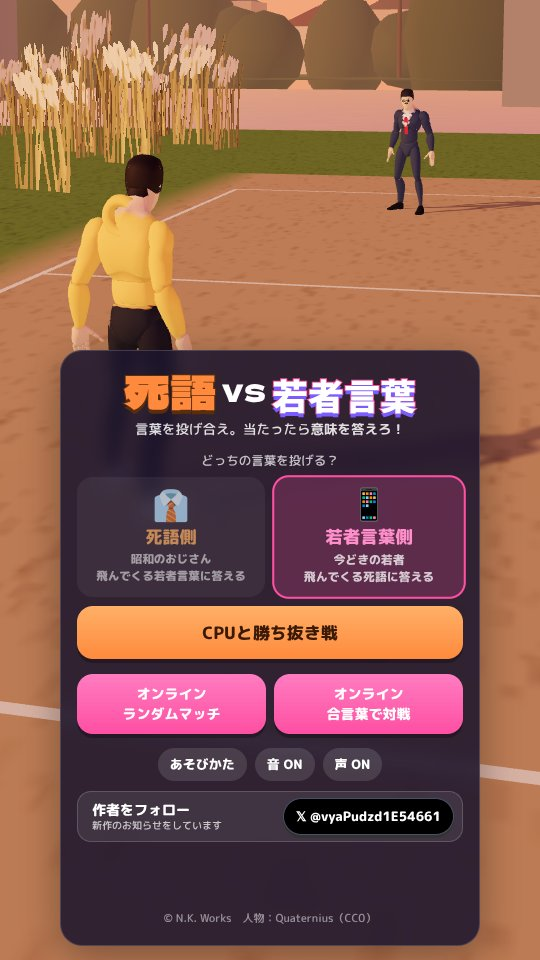
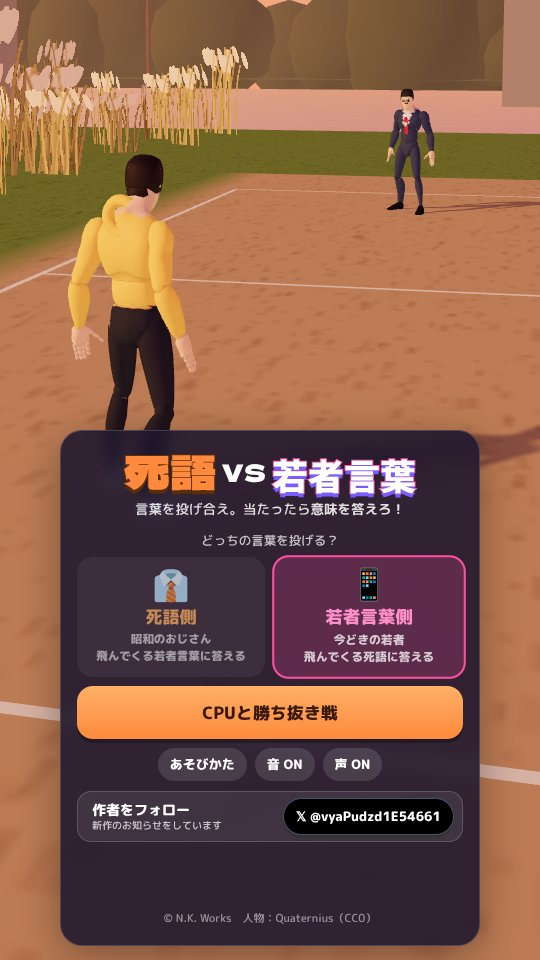
死語 VS 若者言葉：オンライン対戦をいったん非表示に
- タイトルのオンライン対戦ボタンを隠す（CONFIG.online を true にすると戻る）
- ゲームと説明ページの説明文からオンライン対戦の記述を外し、タイトル画面の画像を差し替え

Claude-Session: https://claude.ai/code/session_012oTrt9m68T44S87oX7ydE4

Changed region(s): [[0.0889, 0.3438, 0.9185, 0.7812], [0.0, 0.0, 0.5926, 0.2188], [0.6815, 0.0, 0.7704, 0.0938]]

diff --git a/games/shigo-vs-wakamono/index.html b/games/shigo-vs-wakamono/index.html
@@ -4,13 +4,13 @@
 <meta charset="utf-8">
 <meta name="viewport" content="width=device-width,initial-scale=1">
 <title>死語 VS 若者言葉｜遊び方とコツ - N.K. Works</title>
-<meta name="description" content="死語と若者言葉を立体の文字にして投げ合う3Dゲームです。当たったら、その言葉の意味を4択で答えます。CPUとの勝ち抜き戦と、オンライン対戦（ランダムマッチ・合言葉）があります。">
+<meta name="description" content="死語と若者言葉を立体の文字にして投げ合う3Dゲームです。当たったら、その言葉の意味を4択で答えます。CPUとの勝ち抜き戦で、何人たおせるかに挑戦します。">
 <meta name="google-adsense-account" content="ca-pub-2073267239630350">
 <link rel="canonical" href="https://nkworks-games.com/games/shigo-vs-wakamono/">
 <meta property="og:type" content="website">
 <meta property="og:site_name" content="N.K. Works">
 <meta property="og:title" content="死語 VS 若者言葉｜遊び方とコツ - N.K. Works">
-<meta property="og:description" content="死語と若者言葉を立体の文字にして投げ合う3Dゲームです。当たったら、その言葉の意味を4択で答えます。CPUとの勝ち抜き戦と、オンライン対戦（ランダムマッチ・合言葉）があります。">
+<meta property="og:description" content="死語と若者言葉を立体の文字にして投げ合う3Dゲームです。当たったら、その言葉の意味を4択で答えます。CPUとの勝ち抜き戦で、何人たおせるかに挑戦します。">
 <meta property="og:url" content="https://nkworks-games.com/games/shigo-vs-wakamono/">
 <meta property="og:image" content="https://nkworks-games.com/games/shigo-vs-wakamono/thumb.jpg">
 <meta name="twitter:card" content="summary_large_image">
@@ -18,7 +18,7 @@
 <script>
 (function(){ if (/(^|\.)nkworks-games\.com$/.test(location.hostname)) { var s=document.createElement('script'); s.async=true; s.crossOrigin='anonymous'; s.src='https://pagead2.googlesyndication.com/pagead/js/adsbygoogle.js?client=ca-pub-2073267239630350'; document.head.appendChild(s); } })();
 </script>
-<script type="application/ld+json">{"@context": "https://schema.org", "@type": "VideoGame", "name": "死語 VS 若者言葉", "url": "https://nkworks-games.com/shigo-vs-wakamono/", "description": "死語と若者言葉を立体の文字にして投げ合う3Dゲームです。当たったら、その言葉の意味を4択で答えます。CPUとの勝ち抜き戦と、オンライン対戦（ランダムマッチ・合言葉）があります。", "image": "https://nkworks-games.com/games/shigo-vs-wakamono/thumb.jpg", "datePublished": "2026-11-06", "gamePlatform": "Web browser", "applicationCategory": "Game", "inLanguage": "ja", "author": {"@type": "Organization", "name": "N.K. Works", "url": "https://nkworks-games.com/"}, "offers": {"@type": "Offer", "price": "0", "priceCurrency": "JPY"}}</script>
+<script type="application/ld+json">{"@context": "https://schema.org", "@type": "VideoGame", "name": "死語 VS 若者言葉", "url": "https://nkworks-games.com/shigo-vs-wakamono/", "description": "死語と若者言葉を立体の文字にして投げ合う3Dゲームです。当たったら、その言葉の意味を4択で答えます。CPUとの勝ち抜き戦で、何人たおせるかに挑戦します。", "image": "https://nkworks-games.com/games/shigo-vs-wakamono/thumb.jpg", "datePublished": "2026-11-06", "gamePlatform": "Web browser", "applicationCategory": "Game", "inLanguage": "ja", "author": {"@type": "Organization", "name": "N.K. Works", "url": "https://nkworks-games.com/"}, "offers": {"@type": "Offer", "price": "0", "priceCurrency": "JPY"}}</script>
 </head>
 <body>
 
@@ -32,13 +32,13 @@
 <h1>死語 VS 若者言葉</h1><p class="lead">言葉を投げ合え。当たったら意味を答えろ！</p>
 <div class="hero"><img src="/games/shigo-vs-wakamono/thumb.jpg" alt="死語 VS 若者言葉のイメージ。夕方の河川敷で、若者と昭和風のおじさんが「チョベリバ」「メロい」などの立体の文字を投げ合っている" width="600" height="315"></div>
 <div class="play-row"><a class="btn" href="/shigo-vs-wakamono/">▶ ブラウザで遊ぶ（無料）</a><span class="muted">インストールなし。リンクを開くとすぐ始まります。</span></div>
-<ul class="facts"><li><b>遊べる所</b><span>スマホ（縦画面・横画面）・パソコン</span></li><li><b>人数</b><span>1人（CPUと勝ち抜き戦）・2人（オンライン対戦）</span></li><li><b>1回の長さ</b><span>1人と戦うのは約1分。CPU戦は負けるまで続く</span></li><li><b>公開日</b><span>2026年11月6日</span></li><li><b>料金</b><span>無料（広告あり）</span></li></ul>
+<ul class="facts"><li><b>遊べる所</b><span>スマホ（縦画面・横画面）・パソコン</span></li><li><b>人数</b><span>1人（CPUと勝ち抜き戦）</span></li><li><b>1回の長さ</b><span>1人と戦うのは約1分。CPU戦は負けるまで続く</span></li><li><b>公開日</b><span>2026年11月6日</span></li><li><b>料金</b><span>無料（広告あり）</span></li></ul>
 <h2>どんなゲーム？</h2>
 <p>夕方の河川敷で、言葉を立体の文字にして投げ合うゲームです。最初に「死語側」か「若者言葉側」を選びます。死語側は昭和風のおじさんになって「ナウい」「チョベリバ」などの死語を投げ、若者言葉側は今どきの若者になって「メロい」「エモい」などの若者言葉を投げます。</p>
 <p>相手の言葉に当たると、その言葉の意味を4択で答えます。投げる言葉も、意味を答えられないと投げられません。死語と若者言葉の両方を知っているほど強くなる、言葉の知識の対戦ゲームです。</p>
-<div class="shots"><figure><img src="/games/shigo-vs-wakamono/title.jpg" alt="死語 VS 若者言葉のタイトル画面。死語側と若者言葉側を選ぶボタン、CPUと勝ち抜き戦、オンラインのランダムマッチと合言葉で対戦のボタンが並んでいる" loading="lazy" width="540" height="960"><figcaption>タイトル画面。死語側か若者言葉側を選んで、CPU戦かオンライン対戦を始める</figcaption></figure><figure><img src="/games/shigo-vs-wakamono/play.jpg" alt="対戦中の画面。奥のおじさんから「チョベリグ」、手前の若者から「ビジュイイじゃん」が飛んでいる。画面の下に、投げる言葉「推し」の意味を答える4択が出ている" loading="lazy" width="540" height="960"><figcaption>対戦中の画面。下の4択に正解すると、その言葉を3発投げられる</figcaption></figure><figure><img src="/games/shigo-vs-wakamono/quiz.jpg" alt="言葉に当たった画面。「アベック」ってどういう意味？と出て、恋人どうしのふたり組・テストが平均点ちょうどの人などの4択が並んでいる" loading="lazy" width="540" height="960"><figcaption>言葉に当たると、5秒以内に意味を4択で答える</figcaption></figure></div>
-<h2>遊び方</h2><ol class="steps"><li>タイトル画面で「死語側」か「若者言葉側」を選びます。</li><li>「CPUと勝ち抜き戦」か、オンラインの「ランダムマッチ」「合言葉で対戦」を選びます。</li><li>画面の下に、自分の側の言葉の4択が出ます。意味を正解すると、その言葉が「弾」になります。</li><li>画面をタップすると、弾を投げます。相手と同じ列に入ってねらいます。</li><li>画面を指でなぞると、前後左右に動きます。飛んでくる言葉をよけます。</li><li>相手の言葉に当たったら、その言葉の意味を4択で答えます。</li><li>パソコンでは、←→↑↓キーで動き、スペースキーで投げ、1〜4キーで4択に答えます。</li></ol>
-<h2>ルール</h2><ul><li>ライフ（♥）はお互いに3つです。先に0になった方の負けです。</li><li>相手の言葉に当たったら、5秒以内に意味を4択で答えます。正解でも♥が半分減り、まちがい・時間切れは♥が1つ減ります。</li><li>一度正解した言葉に、もう一度当たったときは、4択は出ずに、すぐ♥が半分減ります。</li><li>投げる言葉の4択に正解すると、同じ言葉を3発投げられます。弾は言葉2つぶん（6発）までためられます。</li><li>投げる言葉の4択をまちがえると、1.5秒のあいだ答えられません。その言葉は捨てて、次の言葉になります。</li><li>相手の言葉とぶつかると「相殺」して、両方消えます。</li><li>前に出られるのは、真ん中の線の手前までです。前に出ると当てやすくなりますが、相手の言葉も早く届くので、よけにくくなります。</li><li>CPU戦は、勝つたびに次の相手が出ます。相手はだんだん強くなり、投げる言葉もむずかしくなります。倒した人数が記録になり、人数に応じて称号がつきます。</li><li>オンラインのランダムマッチは、20秒たっても相手が見つからないとCPU戦になります。2人とも同じ側を選んでいたときは、どちらか1人がランダムで反対の側になります。</li></ul>
+<div class="shots"><figure><img src="/games/shigo-vs-wakamono/title.jpg" alt="死語 VS 若者言葉のタイトル画面。死語側と若者言葉側を選ぶボタンと、CPUと勝ち抜き戦のボタンが並んでいる" loading="lazy" width="540" height="960"><figcaption>タイトル画面。死語側か若者言葉側を選んで、CPUとの勝ち抜き戦を始める</figcaption></figure><figure><img src="/games/shigo-vs-wakamono/play.jpg" alt="対戦中の画面。奥のおじさんから「チョベリグ」、手前の若者から「ビジュイイじゃん」が飛んでいる。画面の下に、投げる言葉「推し」の意味を答える4択が出ている" loading="lazy" width="540" height="960"><figcaption>対戦中の画面。下の4択に正解すると、その言葉を3発投げられる</figcaption></figure><figure><img src="/games/shigo-vs-wakamono/quiz.jpg" alt="言葉に当たった画面。「アベック」ってどういう意味？と出て、恋人どうしのふたり組・テストが平均点ちょうどの人などの4択が並んでいる" loading="lazy" width="540" height="960"><figcaption>言葉に当たると、5秒以内に意味を4択で答える</figcaption></figure></div>
+<h2>遊び方</h2><ol class="steps"><li>タイトル画面で「死語側」か「若者言葉側」を選びます。</li><li>「CPUと勝ち抜き戦」を押すと、対戦が始まります。</li><li>画面の下に、自分の側の言葉の4択が出ます。意味を正解すると、その言葉が「弾」になります。</li><li>画面をタップすると、弾を投げます。相手と同じ列に入ってねらいます。</li><li>画面を指でなぞると、前後左右に動きます。飛んでくる言葉をよけます。</li><li>相手の言葉に当たったら、その言葉の意味を4択で答えます。</li><li>パソコンでは、←→↑↓キーで動き、スペースキーで投げ、1〜4キーで4択に答えます。</li></ol>
+<h2>ルール</h2><ul><li>ライフ（♥）はお互いに3つです。先に0になった方の負けです。</li><li>相手の言葉に当たったら、5秒以内に意味を4択で答えます。正解でも♥が半分減り、まちがい・時間切れは♥が1つ減ります。</li><li>一度正解した言葉に、もう一度当たったときは、4択は出ずに、すぐ♥が半分減ります。</li><li>投げる言葉の4択に正解すると、同じ言葉を3発投げられます。弾は言葉2つぶん（6発）までためられます。</li><li>投げる言葉の4択をまちがえると、1.5秒のあいだ答えられません。その言葉は捨てて、次の言葉になります。</li><li>相手の言葉とぶつかると「相殺」して、両方消えます。</li><li>前に出られるのは、真ん中の線の手前までです。前に出ると当てやすくなりますが、相手の言葉も早く届くので、よけにくくなります。</li><li>CPU戦は、勝つたびに次の相手が出ます。相手はだんだん強くなり、投げる言葉もむずかしくなります。倒した人数が記録になり、人数に応じて称号がつきます。</li></ul>
 <h2>うまくなるコツ</h2><ul><li>4択は、よけながら答えます。言葉が飛んでいないすきに、下の4択に答えて弾をためておくと、攻めやすくなります。</li><li>同じ言葉が3発続けて飛んでくるときは、1発目をよければ、2発目・3発目も同じ列に来やすいです。横に大きく動くとよけやすくなります。</li><li>当たったときに正解できれば、ダメージは半分で済みます。知らない言葉ほど、当たらないようによけるのが大事です。</li><li>相手の言葉は、自分の言葉とぶつけて相殺できます。よけきれないときは、同じ列に投げ返すのも手です。</li><li>結果画面に「まちがえた言葉」と意味が出ます。見直しておくと、次は正解できます。</li></ul>
 <h2>見どころ</h2><ul><li>言葉は、若者言葉94語・死語106語の合わせて200語です。若者言葉は2023〜2026年の流行語の調査に出た言葉から、死語は死語の一覧や「Z世代に通じない言葉」の調査に出る言葉から選んでいます。</li><li>投げた言葉は、声で読み上げられます（タイトル画面の「声」ボタンで切りかえられます）。</li><li>相手は、課長・番長風のおじさんや、パーカー・ストリート系の若者など、毎回ちがう服装で出てきます。</li><li>称号は、死語側なら「若者言葉マスター」、若者言葉側なら「死語ソムリエ」など、倒した人数で変わります。</li></ul>
 <div class="play-row"><a class="btn" href="/shigo-vs-wakamono/">▶ 死語 VS 若者言葉を遊ぶ</a></div>

diff --git a/shigo-vs-wakamono/index.html b/shigo-vs-wakamono/index.html
@@ -4,7 +4,7 @@
 <meta charset="utf-8">
 <meta name="viewport" content="width=device-width,initial-scale=1,viewport-fit=cover,user-scalable=no">
 <title>死語 VS 若者言葉</title>
-<meta name="description" content="死語と若者言葉を立体の文字にして投げ合う3D対戦ゲーム。当たったら意味を4択で答えろ！CPUとの勝ち抜き戦と、ランダム・合言葉のオンライン対戦。">
+<meta name="description" content="死語と若者言葉を立体の文字にして投げ合う3D対戦ゲーム。当たったら意味を4択で答えろ！CPUとの勝ち抜き戦で、何人たおせるか挑戦しよう。">
 <meta name="theme-color" content="#2a2140">
 <meta name="google-adsense-account" content="ca-pub-2073267239630350">
 <script>(function(){if(/(^|\.)nkworks-games\.com$/.test(location.hostname)){var s=document.createElement('script');s.async=true;s.crossOrigin='anonymous';s.src='https://pagead2.googlesyndication.com/pagead/js/adsbygoogle.js?client=ca-pub-2073267239630350';document.head.appendChild(s);}})();</script>
@@ -187,7 +187,7 @@ input.pass{width:100%;font:inherit;font-size:20px;font-weight:800;text-align:cen
   <div class="best" id="best"></div>
   </div><div class="colB">
   <button class="btn s" id="bCpu">CPUと勝ち抜き戦</button>
-  <div class="row"><button class="btn y sm" id="bRandom">オンライン<br>ランダムマッチ</button><button class="btn y sm" id="bPass">オンライン<br>合言葉で対戦</button></div>
+  <div class="row" id="onRow"><button class="btn y sm" id="bRandom">オンライン<br>ランダムマッチ</button><button class="btn y sm" id="bPass">オンライン<br>合言葉で対戦</button></div>
   <div class="foot"><button class="chip" id="bHelp">あそびかた</button><button class="chip" id="bSnd"></button><button class="chip" id="bVoice"></button></div>
   <div class="follow"><div><p class="fl">作者をフォロー</p><p class="fs">新作のお知らせをしています</p></div><a class="fbtn" target="_blank" rel="noopener" data-google-vignette="false"></a></div>
   <div class="adwrap" id="adT"></div>
@@ -283,6 +283,7 @@ const CONFIG = {
   net: { matchWait: 20, gone: 12, posHz: 10, beat: 3, lobby: 20, startDelay: 3.2, speed: 9.5, cool: 0.45 },
   shareUrl: 'https://nkworks-games.com/shigo-vs-wakamono/',
   ad: { client: 'ca-pub-2073267239630350', slot: '6261635446', host: /(^|\.)nkworks-games\.com$/ },   // 広告（公開サイトでだけ出す。タイトルと結果画面の320x50だけ）
+  online: false,   // オンライン対戦のボタンを出すか。Firebaseのルール（swvLobby・swvRoom）を入れたら true にする（head.html の description にもオンラインの説明を戻す）
   followX: 'vyaPudzd1E54661',   // 「作者をフォロー」ボタンのXアカウント
   tag: '死語VS若者言葉',
 };
@@ -1602,6 +1603,7 @@ function netStop() { for (const u of ONL.unsub) { try { u(); } catch (e) { } } O
 function netSend(k, d) { const N = G.net; if (!N || N.gone || G.mode !== 'net') return; Promise.resolve(N.net.send(k, d)).catch(e => console.warn('送れませんでした', e)); }
 // --- 待合の画面
 function openOnline(kind) {
+  if (!CONFIG.online) return;
   netLeave(); hideScreens(); clearField(); hideCall(); $('hud').classList.add('hide'); G.state = 'menu'; G.mode = 'cpu'; ONL.kind = kind;
   $('online').classList.remove('hide'); $('onErr').textContent = ''; $('onTitle').textContent = kind === 'random' ? 'ランダムマッチ' : '合言葉で対戦';
   $('onPass').classList.toggle('hide', kind !== 'pass'); $('onWait').classList.add('hide'); $('bOnBack').textContent = 'もどる';
@@ -1791,6 +1793,7 @@ function openPause() {
 }
 function closePause() { paused = false; last = performance.now(); $('pause').classList.add('hide'); }
 function bindUI() {
+  if (!CONFIG.online) $('onRow').classList.add('hide');   // オンライン対戦は今はお休み（CONFIG.online）
   document.querySelectorAll('.fbtn').forEach(a => { a.href = 'https://x.com/intent/follow?screen_name=' + CONFIG.followX; a.textContent = '𝕏 @' + CONFIG.followX; });
   for (const b of document.querySelectorAll('.side')) b.onclick = () => { AU.resume(); AU.ui(); if (G.side === b.dataset.side) return; G.side = b.dataset.side; store.set('side', G.side); setupFighters(); titleUI(); };
   const go = f => () => { AU.resume(); VOICE.unlock(); AU.ui(); f(); };
